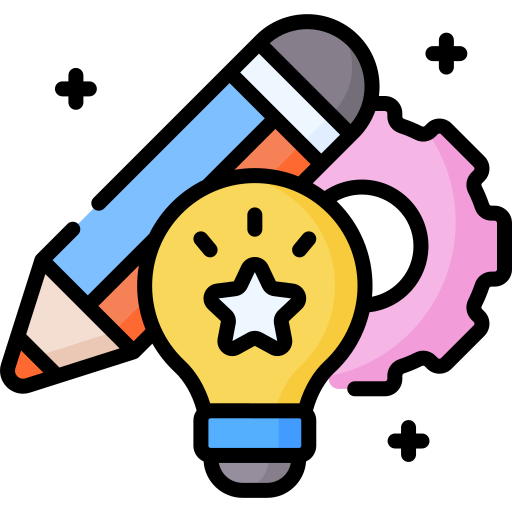
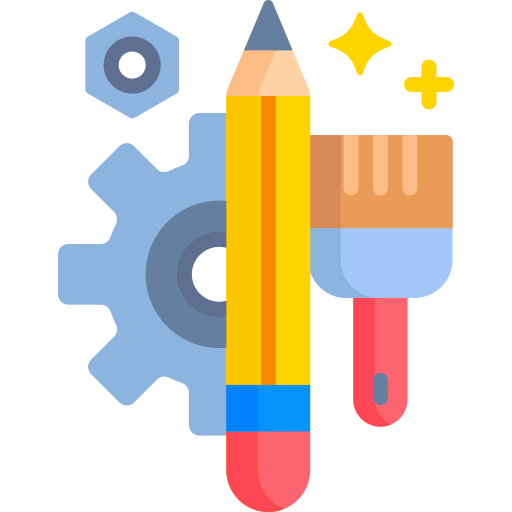
fix-create-course

diff --git a/app/create-course/page.js b/app/create-course/page.js
@@ -217,12 +217,12 @@ const CreateCourse = () => {
             {activeStep === 2 && <Options />}
           </div>
 
-          {/* Next & Previous - Added gap-4 for mobile spacing */}
-          <div className="mt-16 sm:mt-24 flex justify-between gap-4">
+          {/* Next & Previous */}
+          <div className="mt-16 sm:mt-24 flex flex-col sm:flex-row justify-between gap-4">
             <Button
               onClick={handlePrev}
               disabled={activeStep === 0}
-              className={`cursor-pointer px-6 py-2 rounded-md transition-all ${
+              className={`text-md font-medium cursor-pointer px-6 py-2 rounded-md transition-all ${
                 activeStep === 0
                   ? "bg-gray-300 text-black"
                   : "bg-[#155DFC] text-white"
@@ -235,7 +235,7 @@ const CreateCourse = () => {
               <Button
                 onClick={handleNext}
                 disabled={checkStatus()}
-                className="cursor-pointer px-6 py-2 bg-[#155DFC] text-white rounded-md disabled:cursor-not-allowed disabled:opacity-50"
+                className="text-md font-medium cursor-pointer px-6 py-2 bg-[#155DFC] text-white rounded-md disabled:cursor-not-allowed disabled:opacity-50"
               >
                 Next
               </Button>
@@ -243,7 +243,7 @@ const CreateCourse = () => {
               <Button
                 onClick={generateCourseLayout}
                 disabled={checkStatus()}
-                className="cursor-pointer px-6 py-2 bg-[#155DFC] text-white rounded-md disabled:opacity-50"
+                className="text-md font-medium cursor-pointer px-6 py-2 bg-[#155DFC] text-white rounded-md disabled:opacity-50"
               >
                 Generate Course
               </Button>

diff --git a/app/dashboard/_components/DeleteableCoursesList.js b/app/dashboard/_components/DeleteableCoursesList.js
@@ -39,7 +39,7 @@ const DeletableCourseList = () => {
             />
           ))
         : [1, 2, 3, 4, 5, 6].map((index) => (
-            <div key={index} className="border-2 border-red-100 bg-white rounded-xl overflow-hidden animate-pulse">
+            <div key={index} className="border-2 border-gray-200 bg-white rounded-xl overflow-hidden animate-pulse">
               {/* Banner skeleton */}
               <div className="w-full h-48 bg-slate-200" />
 

diff --git a/app/_shared/CategoryList.js b/app/_shared/CategoryList.js
@@ -1,8 +1,8 @@
 export const CategoryList = [
   {
     id: 1,
-    name: 'Programming',
-    image: "/programming.png"
+    name: 'Coding',
+    image: "/coding.png"
   },
   {
     id: 2,
@@ -17,6 +17,6 @@ export const CategoryList = [
   {
     id: 4,
     name: 'Business',
-    image: "/creative.png"
+    image: "/business.png"
   }
 ];
